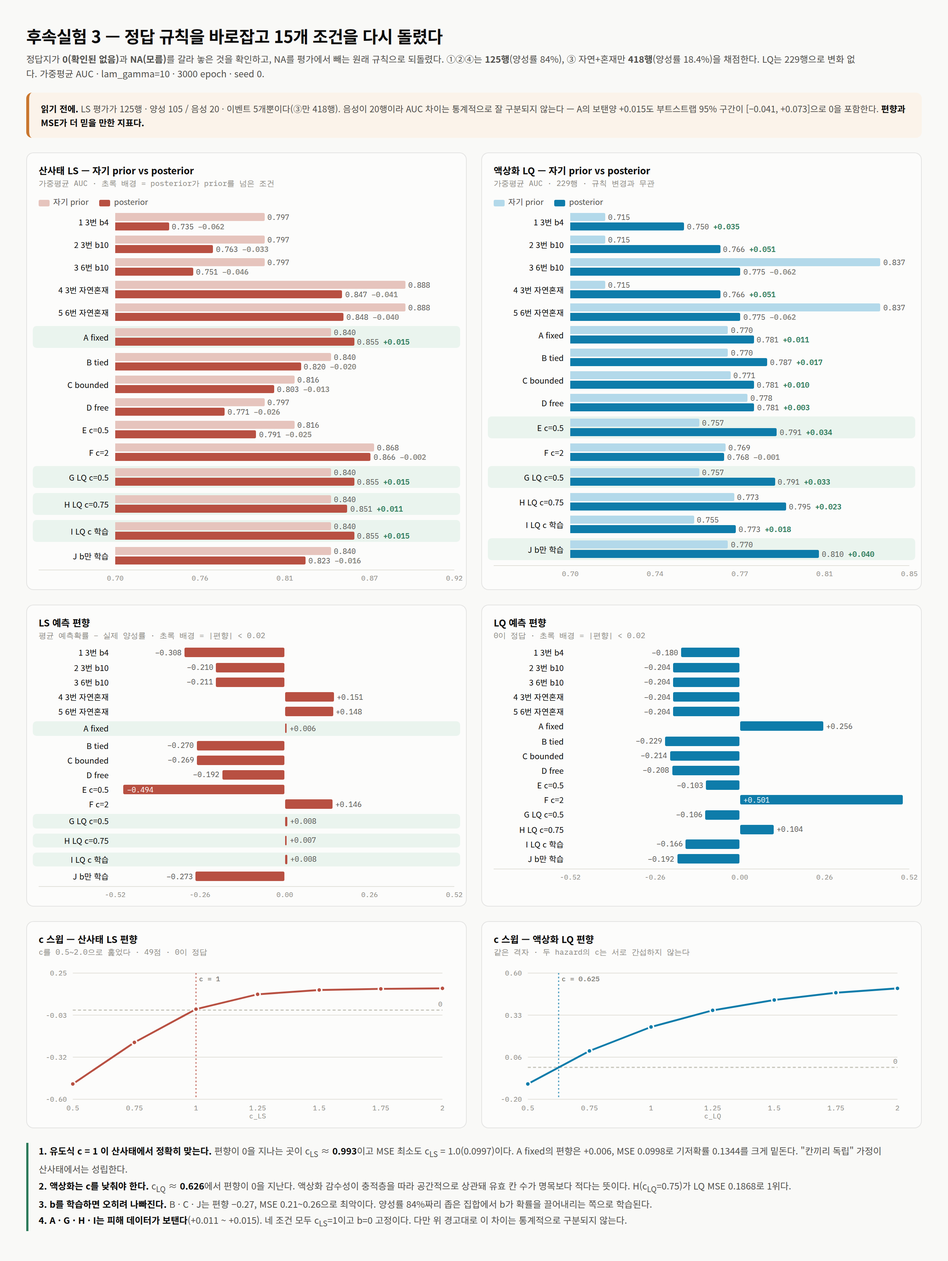
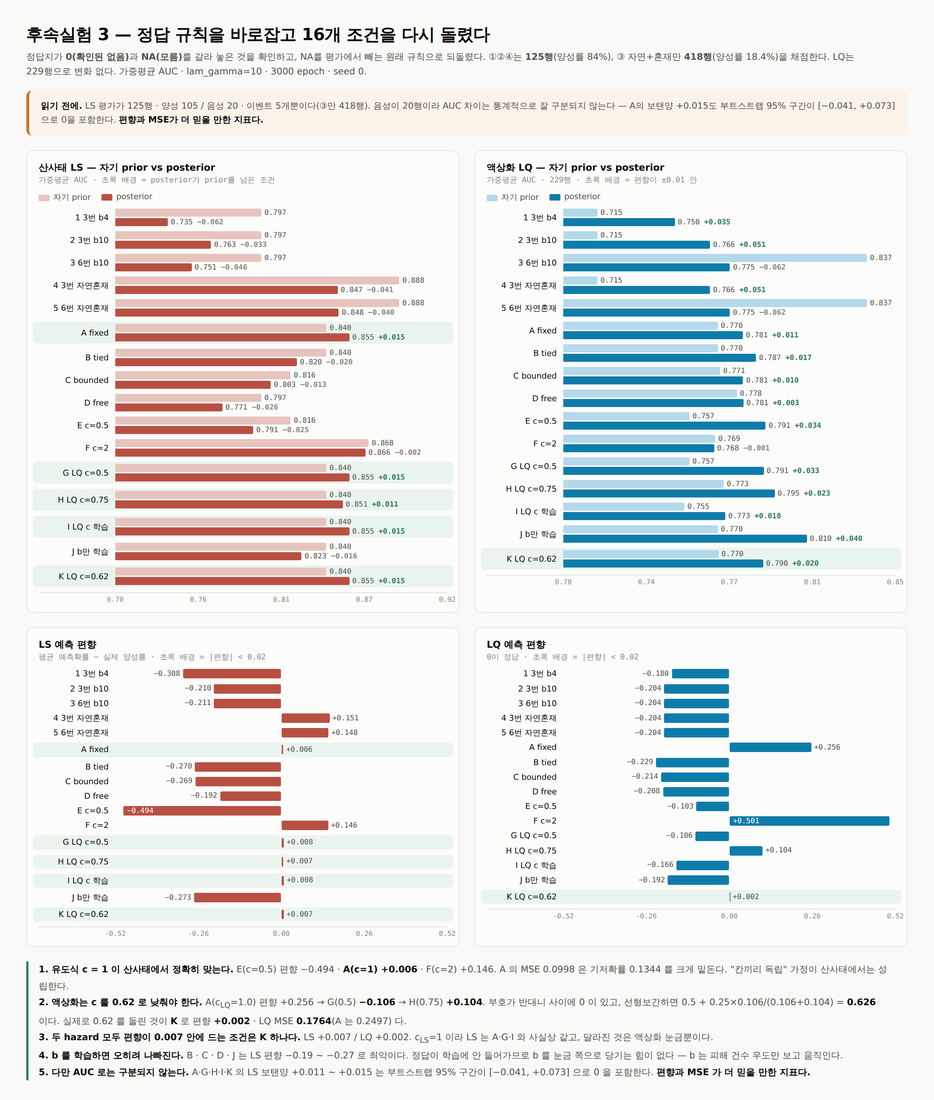
LS·LQ 가중 AUC 그림에 K 를 넣는다
docs/그림/후속실험3_ruleB_results.png/.html 이 15개 조건 시점에서 멈춰
있었다. K 가 빠져 있고 스윕 패널 두 개가 아직 붙어 있었다.

  · D.cond 에 K 추가 -> LS/LQ 자기 prior vs posterior, LS/LQ 예측 편향
    네 패널 전부에 K 가 들어간다
  · c 스윕 패널 두 개 제거
  · LQ 패널의 초록 강조 기준을 "posterior > prior"(거의 전부 해당이라
    의미가 없었다)에서 "편향이 ±0.01 안"으로 바꿨다 -> K 하나
  · 각주를 A/E/F 와 G/H/K 비교로 다시 썼다. 격자 이야기 없이
    선형보간 0.626 -> 실측 0.62 에서 +0.002 로 잇는다

Claude-Session: https://claude.ai/code/session_01JcDXYvn1XaQf5m8mAKW3Lg

diff --git a/docs/그림/후속실험3_ruleB_results.html b/docs/그림/후속실험3_ruleB_results.html
@@ -40,7 +40,7 @@ svg{display:block;width:100%;height:auto}
       border-left:3px solid var(--good);padding-left:14px;max-width:1180px}
 .foot b{color:var(--text-primary)}
 </style></head><body><div class="viz-root" data-palette="#B85042,#0E7CAA">
-<h1>후속실험 3 — 정답 규칙을 바로잡고 15개 조건을 다시 돌렸다</h1>
+<h1>후속실험 3 — 정답 규칙을 바로잡고 16개 조건을 다시 돌렸다</h1>
 <p class="sub">정답지가 <b>0(확인된 없음)</b>과 <b>NA(모름)</b>를 갈라 놓은 것을 확인하고, NA를 평가에서 빼는 원래 규칙으로 되돌렸다.
 ①②④는 <b>125행</b>(양성률 84%), ③ 자연+혼재만 <b>418행</b>(양성률 18.4%)을 채점한다. LQ는 229행으로 변화 없다.
 가중평균 AUC · lam_gamma=10 · 3000 epoch · seed 0.</p>
@@ -50,7 +50,7 @@ svg{display:block;width:100%;height:auto}
 <div class="foot" id="foot"></div>
 </div>
 <script>
-const D={"cond": [{"No": "1", "이름": "3번 b4", "ls_raw": 0.7968643805993205, "ls_zp": 0.7968643805993205, "ls_area": 0.0, "ls_post": 0.7348110390279065, "ls_gain": -0.062053341571414, "mse_ls": 0.2793319734473521, "bias_ls": -0.3078073789381724, "base_ls": 0.84, "lq_raw": 0.715445570663787, "lq_zp": 0.715445570663787, "lq_area": 0.0, "lq_post": 0.7503757454557128, "lq_gain": 0.0349301747919258, "mse_lq": 0.2280262782090792, "bias_lq": -0.1803958406016257, "base_lq": 0.4759825327510917, "n_ls": 125, "n_lq": 229, "c_LS": NaN, "c_LQ": NaN, "a_LS": 0.7274190934799594, "b_LS": 3.954071169803808, "a_LQ": 0.5044058479070177, "b_LQ": 1.0587060034026514, "label": "1 3번 b4"}, {"No": "2", "이름": "3번 b10", "ls_raw": 0.7968643805993205, "ls_zp": 0.7968643805993205, "ls_area": 0.0, "ls_post": 0.7634924312635156, "ls_gain": -0.0333719493358048, "mse_ls": 0.2510062807398157, "bias_ls": -0.2103040080561456, "base_ls": 0.84, "lq_raw": 0.715445570663787, "lq_zp": 0.715445570663787, "lq_area": 0.0, "lq_post": 0.7662982008386088, "lq_gain": 0.0508526301748217, "mse_lq": 0.2427722398723853, "bias_lq": -0.2039158925688065, "base_lq": 0.4759825327510917, "n_ls": 125, "n_lq": 229, "c_LS": NaN, "c_LQ": NaN, "a_LS": 1.568403632675413, "b_LS": 9.522993449631365, "a_LQ": 0.5036324030079448, "b_LQ": 0.9051038253663326, "label": "2 3번 b10"}, {"No": "3", "이름": "6번 b10", "ls_raw": 0.7968643805993205, "ls_zp": 0.7968643805993205, "ls_area": 0.0, "ls_post": 0.7505792400370713, "ls_gain": -0.0462851405622491, "mse_ls": 0.2524140657985036, "bias_ls": -0.2111290477389198, "base_ls": 0.84, "lq_raw": 0.8372328435881067, "lq_zp": 0.8372328435881067, "lq_area": 0.0, "lq_post": 0.775312447971764, "lq_gain": -0.0619203956163426, "mse_lq": 0.2408705471471037, "bias_lq": -0.2041973127268158, "base_lq": 0.4759825327510917, "n_ls": 125, "n_lq": 229, "c_LS": NaN, "c_LQ": NaN, "a_LS": 1.582856784429489, "b_LS": 9.588503781595774, "a_LQ": 0.5054128561243995, "b_LQ": -0.3364140951384531, "label": "3 6번 b10"}, {"No": "4", "이름": "3번 자연혼재", "ls_raw": 0.8882617351397255, "ls_zp": 0.8882617351397255, "ls_area": 0.0, "ls_post": 0.8473746499104803, "ls_gain": -0.0408870852292452, "mse_ls": 0.1404156863563215, "bias_ls": 0.1508961155759333, "base_ls": 0.1842105263157894, "lq_raw": 0.715445570663787, "lq_zp": 0.715445570663787, "lq_area": 0.0, "lq_post": 0.7662982008386088, "lq_gain": 0.0508526301748217, "mse_lq": 0.2427722398723853, "bias_lq": -0.2039158925688065, "base_lq": 0.4759825327510917, "n_ls": 418, "n_lq": 229, "c_LS": NaN, "c_LQ": NaN, "a_LS": 1.568403632675413, "b_LS": 9.522993449631365, "a_LQ": 0.5036324030079448, "b_LQ": 0.9051038253663326, "label": "4 3번 자연혼재"}, {"No": "5", "이름": "6번 자연혼재", "ls_raw": 0.8882617351397255, "ls_zp": 0.8882617351397255, "ls_area": 0.0, "ls_post": 0.8481457114288896, "ls_gain": -0.0401160237108358, "mse_ls": 0.1371212718010325, "bias_ls": 0.1476869689204099, "base_ls": 0.1842105263157894, "lq_raw": 0.8372328435881067, "lq_zp": 0.8372328435881067, "lq_area": 0.0, "lq_post": 0.775312447971764, "lq_gain": -0.0619203956163426, "mse_lq": 0.2408705471471037, "bias_lq": -0.2041973127268158, "base_lq": 0.4759825327510917, "n_ls": 418, "n_lq": 229, "c_LS": NaN, "c_LQ": NaN, "a_LS": 1.582856784429489, "b_LS": 9.588503781595774, "a_LQ": 0.5054128561243995, "b_LQ": -0.3364140951384531, "label": "5 6번 자연혼재"}, {"No": "A", "이름": "fixed", "ls_raw": 0.7968643805993205, "ls_zp": 0.8399598393574298, "ls_area": 0.0430954587581092, "ls_post": 0.8550200803212852, "ls_gain": 0.0150602409638553, "mse_ls": 0.0998487663732678, "bias_ls": 0.0061859941832526, "base_ls": 0.84, "lq_raw": 0.715445570663787, "lq_zp": 0.7698132442003763, "lq_area": 0.0543676735365893, "lq_post": 0.7811638620211699, "lq_gain": 0.0113506178207936, "mse_lq": 0.2497435455511018, "bias_lq": 0.2562676233067474, "base_lq": 0.4759825327510917, "n_ls": 125, "n_lq": 229, "c_LS": 1.0, "c_LQ": 1.0, "a_LS": 1.0, "b_LS": 0.0, "a_LQ": 1.0, "b_LQ": 0.0, "label": "A fixed"}, {"No": "B", "이름": "tied", "ls_raw": 0.7968643805993205, "ls_zp": 0.8399598393574298, "ls_area": 0.0430954587581092, "ls_post": 0.8204252909072185, "ls_gain": -0.0195345484502112, "mse_ls": 0.2147855366271819, "bias_ls": -0.2703524960405016, "base_ls": 0.84, "lq_raw": 0.715445570663787, "lq_zp": 0.7698132442003763, "lq_area": 0.0543676735365893, "lq_post": 0.7871013373621009, "lq_gain": 0.0172880931617245, "mse_lq": 0.2529894925057961, "bias_lq": -0.2293429645422477, "base_lq": 0.4759825327510917, "n_ls": 125, "n_lq": 229, "c_LS": 0.8890630358122407, "c_LQ": 0.5042456068699199, "a_LS": 0.8890630358122407, "b_LS": 4.913802665460381, "a_LQ": 0.5042456068699199, "b_LQ": 0.8037535238086804, "label": "B tied"}, {"No": "C", "이름": "bounded", "ls_raw": 0.7968643805993205, "ls_zp": 0.8162676346411286, "ls_area": 0.019403254041808, "ls_post": 0.8030867057975491, "ls_gain": -0.0131809288435794, "mse_ls": 0.256347104280172, "bias_ls": -0.2691445587496691, "base_ls": 0.84, "lq_raw": 0.715445570663787, "lq_zp": 0.7708815568191858, "lq_area": 0.0554359861553988, "lq_post": 0.7812510185045455, "lq_gain": 0.0103694616853596, "mse_lq": 0.2506867966278058, "bias_lq": -0.2142641875148332, "base_lq": 0.4759825327510917, "n_ls": 125, "n_lq": 229, "c_LS": 1.0, "c_LQ": 1.0, "a_LS": 1.9766451434571248, "b_LS": 11.063044786600129, "a_LQ": 0.5076031407489251, "b_LQ": 0.8302828512779357, "label": "C bounded"}, {"No": "D", "이름": "free", "ls_raw": 0.7968643805993205, "ls_zp": 0.7968643805993205, "ls_area": 0.0, "ls_post": 0.7710225517454433, "ls_gain": -0.0258418288538772, "mse_ls": 0.25265216745466, "bias_ls": -0.1917256198165663, "base_ls": 0.84, "lq_raw": 0.715445570663787, "lq_zp": 0.7784457535241298, "lq_area": 0.0630001828603428, "lq_post": 0.7813957150778135, "lq_gain": 0.0029499615536836, "mse_lq": 0.2411452087850049, "bias_lq": -0.2079445798010062, "base_lq": 0.4759825327510917, "n_ls": 125, "n_lq": 229, "c_LS": 0.0062676832952768, "c_LQ": 0.7820254320263271, "a_LS": 1.8616153745419104, "b_LS": 11.492543883093449, "a_LQ": 0.5038246365008456, "b_LQ": 0.9129131690871476, "label": "D free"}, {"No": "E", "이름": "a1-c05", "ls_raw": 0.7968643805993205, "ls_zp": 0.8162676346411286, "ls_area": 0.019403254041808, "ls_post": 0.7914684378539801, "ls_gain": -0.0247991967871484, "mse_ls": 0.4191938525760641, "bias_ls": -0.4942922925468241, "base_ls": 0.84, "lq_raw": 0.715445570663787, "lq_zp": 0.7570032442862361, "lq_area": 0.0415576736224491, "lq_post": 0.7913576504333986, "lq_gain": 0.0343544061471624, "mse_lq": 0.1932071299132106, "bias_lq": -0.1030772039249623, "base_lq": 0.4759825327510917, "n_ls": 125, "n_lq": 229, "c_LS": 0.5, "c_LQ": 0.5, "a_LS": 1.0, "b_LS": 0.0, "a_LQ": 1.0, "b_LQ": 0.0, "label": "E c=0.5"}, {"No": "F", "이름": "a1-c2", "ls_raw": 0.7968643805993205, "ls_zp": 0.8679358459478941, "ls_area": 0.0710714653485735, "ls_post": 0.8657939450108125, "ls_gain": -0.0021419009370815, "mse_ls": 0.1442996419327227, "bias_ls": 0.1463608846378705, "base_ls": 0.84, "lq_raw": 0.715445570663787, "lq_zp": 0.7686894582468381, "lq_area": 0.0532438875830511, "lq_post": 0.7681273604980395, "lq_gain": -0.0005620977487985, "mse_lq": 0.4896167745585785, "bias_lq": 0.5007791235939936, "base_lq": 0.4759825327510917, "n_ls": 125, "n_lq": 229, "c_LS": 2.0, "c_LQ": 2.0, "a_LS": 1.0, "b_LS": 0.0, "a_LQ": 1.0, "b_LQ": 0.0, "label": "F c=2"}, {"No": "G", "이름": "lq-c05", "ls_raw": 0.7968643805993205, "ls_zp": 0.8399598393574298, "ls_area": 0.0430954587581092, "ls_post": 0.8550200803212852, "ls_gain": 0.0150602409638553, "mse_ls": 0.0994073025277471, "bias_ls": 0.0076548553637766, "base_ls": 0.84, "lq_raw": 0.715445570663787, "lq_zp": 0.7570032442862361, "lq_area": 0.0415576736224491, "lq_post": 0.7905010056344223, "lq_gain": 0.0334977613481861, "mse_lq": 0.1929188856756437, "bias_lq": -0.1055842100631908, "base_lq": 0.4759825327510917, "n_ls": 125, "n_lq": 229, "c_LS": 1.0, "c_LQ": 0.5, "a_LS": 1.0, "b_LS": 0.0, "a_LQ": 1.0, "b_LQ": 0.0, "label": "G LQ c=0.5"}, {"No": "H", "이름": "lq-c075", "ls_raw": 0.7968643805993205, "ls_zp": 0.8399598393574298, "ls_area": 0.0430954587581092, "ls_post": 0.8506693440428382, "ls_gain": 0.0107095046854084, "mse_ls": 0.0997649079420881, "bias_ls": 0.0065844150854692, "base_ls": 0.84, "lq_raw": 0.715445570663787, "lq_zp": 0.7725097545303329, "lq_area": 0.0570641838665458, "lq_post": 0.7954588992722339, "lq_gain": 0.022949144741901, "mse_lq": 0.1867685792322648, "bias_lq": 0.1041476237795492, "base_lq": 0.4759825327510917, "n_ls": 125, "n_lq": 229, "c_LS": 1.0, "c_LQ": 0.75, "a_LS": 1.0, "b_LS": 0.0, "a_LQ": 1.0, "b_LQ": 0.0, "label": "H LQ c=0.75"}, {"No": "I", "이름": "lq-c-free", "ls_raw": 0.7968643805993205, "ls_zp": 0.8399598393574298, "ls_area": 0.0430954587581092, "ls_post": 0.8550200803212852, "ls_gain": 0.0150602409638553, "mse_ls": 0.0993319630371059, "bias_ls": 0.0080140598146835, "base_ls": 0.84, "lq_raw": 0.715445570663787, "lq_zp": 0.7547224351413069, "lq_area": 0.0392768644775198, "lq_post": 0.7731792081282929, "lq_gain": 0.018456772986986, "mse_lq": 0.215476651432244, "bias_lq": -0.1658233394545835, "base_lq": 0.4759825327510917, "n_ls": 125, "n_lq": 229, "c_LS": 1.0, "c_LQ": 0.4337486710059368, "a_LS": 1.0, "b_LS": 0.0, "a_LQ": 1.0, "b_LQ": 0.0, "label": "I LQ c 학습"}, {"No": "J", "이름": "b-only", "ls_raw": 0.7968643805993205, "ls_zp": 0.8399598393574298, "ls_area": 0.0430954587581092, "ls_post": 0.8234708063021315, "ls_gain": -0.0164890330552982, "mse_ls": 0.2218293968185284, "bias_ls": -0.2729773504885197, "base_ls": 0.84, "lq_raw": 0.715445570663787, "lq_zp": 0.7698132442003763, "lq_area": 0.0543676735365893, "lq_post": 0.8099853097180639, "lq_gain": 0.0401720655176875, "mse_lq": 0.2217175699235435, "bias_lq": -0.1922137031066942, "base_lq": 0.4759825327510917, "n_ls": 125, "n_lq": 229, "c_LS": 1.0, "c_LQ": 1.0, "a_LS": 1.0, "b_LS": 5.532767742701953, "a_LQ": 1.0, "b_LQ": 2.689181086233802, "label": "J b만 학습"}], "sweep_ls": [{"c_ls": 0.5, "bias_ls": -0.49755421823061186, "mse_ls": 0.4229181477693678}, {"c_ls": 0.75, "bias_ls": -0.2177441798865655, "mse_ls": 0.19460370645001654}, {"c_ls": 1.0, "bias_ls": 0.006468757851519557, "mse_ls": 0.09973784157985348}, {"c_ls": 1.25, "bias_ls": 0.10619467818283708, "mse_ls": 0.1103083685957041}, {"c_ls": 1.5, "bias_ls": 0.13555024138204244, "mse_ls": 0.13265754187366735}, {"c_ls": 1.75, "bias_ls": 0.14302155436747296, "mse_ls": 0.1413797299042388}, {"c_ls": 2.0, "bias_ls": 0.14635385218262262, "mse_ls": 0.1442951929535584}], "sweep_lq": [{"c_lq": 0.5, "bias_lq": -0.1054988886372061, "mse_lq": 0.19329377944292528}, {"c_lq": 0.75, "bias_lq": 0.10387331972798794, "mse_lq": 0.18650030421993005}, {"c_lq": 1.0, "bias_lq": 0.2560556918963564, "mse_lq": 0.24931194191544764}, {"c_lq": 1.25, "bias_lq": 0.3612479073866175, "mse_lq": 0.3329907232543502}, {"c_lq": 1.5, "bias_lq": 0.4271011976368045, "mse_lq": 0.39993356022340326}, {"c_lq": 1.75, "bias_lq": 0.4730715609363915, "mse_lq": 0.4512091891390946}, {"c_lq": 2.0, "bias_lq": 0.500784855984935, "mse_lq": 0.4896265960907145}]}, C=D.cond;
+const D={"cond": [{"No": "1", "이름": "3번 b4", "ls_raw": 0.7968643805993205, "ls_zp": 0.7968643805993205, "ls_area": 0.0, "ls_post": 0.7348110390279065, "ls_gain": -0.062053341571414, "mse_ls": 0.2793319734473521, "bias_ls": -0.3078073789381724, "base_ls": 0.84, "lq_raw": 0.715445570663787, "lq_zp": 0.715445570663787, "lq_area": 0.0, "lq_post": 0.7503757454557128, "lq_gain": 0.0349301747919258, "mse_lq": 0.2280262782090792, "bias_lq": -0.1803958406016257, "base_lq": 0.4759825327510917, "n_ls": 125, "n_lq": 229, "c_LS": NaN, "c_LQ": NaN, "a_LS": 0.7274190934799594, "b_LS": 3.954071169803808, "a_LQ": 0.5044058479070177, "b_LQ": 1.0587060034026514, "label": "1 3번 b4"}, {"No": "2", "이름": "3번 b10", "ls_raw": 0.7968643805993205, "ls_zp": 0.7968643805993205, "ls_area": 0.0, "ls_post": 0.7634924312635156, "ls_gain": -0.0333719493358048, "mse_ls": 0.2510062807398157, "bias_ls": -0.2103040080561456, "base_ls": 0.84, "lq_raw": 0.715445570663787, "lq_zp": 0.715445570663787, "lq_area": 0.0, "lq_post": 0.7662982008386088, "lq_gain": 0.0508526301748217, "mse_lq": 0.2427722398723853, "bias_lq": -0.2039158925688065, "base_lq": 0.4759825327510917, "n_ls": 125, "n_lq": 229, "c_LS": NaN, "c_LQ": NaN, "a_LS": 1.568403632675413, "b_LS": 9.522993449631365, "a_LQ": 0.5036324030079448, "b_LQ": 0.9051038253663326, "label": "2 3번 b10"}, {"No": "3", "이름": "6번 b10", "ls_raw": 0.7968643805993205, "ls_zp": 0.7968643805993205, "ls_area": 0.0, "ls_post": 0.7505792400370713, "ls_gain": -0.0462851405622491, "mse_ls": 0.2524140657985036, "bias_ls": -0.2111290477389198, "base_ls": 0.84, "lq_raw": 0.8372328435881067, "lq_zp": 0.8372328435881067, "lq_area": 0.0, "lq_post": 0.775312447971764, "lq_gain": -0.0619203956163426, "mse_lq": 0.2408705471471037, "bias_lq": -0.2041973127268158, "base_lq": 0.4759825327510917, "n_ls": 125, "n_lq": 229, "c_LS": NaN, "c_LQ": NaN, "a_LS": 1.582856784429489, "b_LS": 9.588503781595774, "a_LQ": 0.5054128561243995, "b_LQ": -0.3364140951384531, "label": "3 6번 b10"}, {"No": "4", "이름": "3번 자연혼재", "ls_raw": 0.8882617351397255, "ls_zp": 0.8882617351397255, "ls_area": 0.0, "ls_post": 0.8473746499104803, "ls_gain": -0.0408870852292452, "mse_ls": 0.1404156863563215, "bias_ls": 0.1508961155759333, "base_ls": 0.1842105263157894, "lq_raw": 0.715445570663787, "lq_zp": 0.715445570663787, "lq_area": 0.0, "lq_post": 0.7662982008386088, "lq_gain": 0.0508526301748217, "mse_lq": 0.2427722398723853, "bias_lq": -0.2039158925688065, "base_lq": 0.4759825327510917, "n_ls": 418, "n_lq": 229, "c_LS": NaN, "c_LQ": NaN, "a_LS": 1.568403632675413, "b_LS": 9.522993449631365, "a_LQ": 0.5036324030079448, "b_LQ": 0.9051038253663326, "label": "4 3번 자연혼재"}, {"No": "5", "이름": "6번 자연혼재", "ls_raw": 0.8882617351397255, "ls_zp": 0.8882617351397255, "ls_area": 0.0, "ls_post": 0.8481457114288896, "ls_gain": -0.0401160237108358, "mse_ls": 0.1371212718010325, "bias_ls": 0.1476869689204099, "base_ls": 0.1842105263157894, "lq_raw": 0.8372328435881067, "lq_zp": 0.8372328435881067, "lq_area": 0.0, "lq_post": 0.775312447971764, "lq_gain": -0.0619203956163426, "mse_lq": 0.2408705471471037, "bias_lq": -0.2041973127268158, "base_lq": 0.4759825327510917, "n_ls": 418, "n_lq": 229, "c_LS": NaN, "c_LQ": NaN, "a_LS": 1.582856784429489, "b_LS": 9.588503781595774, "a_LQ": 0.5054128561243995, "b_LQ": -0.3364140951384531, "label": "5 6번 자연혼재"}, {"No": "A", "이름": "fixed", "ls_raw": 0.7968643805993205, "ls_zp": 0.8399598393574298, "ls_area": 0.0430954587581092, "ls_post": 0.8550200803212852, "ls_gain": 0.0150602409638553, "mse_ls": 0.0998487663732678, "bias_ls": 0.0061859941832526, "base_ls": 0.84, "lq_raw": 0.715445570663787, "lq_zp": 0.7698132442003763, "lq_area": 0.0543676735365893, "lq_post": 0.7811638620211699, "lq_gain": 0.0113506178207936, "mse_lq": 0.2497435455511018, "bias_lq": 0.2562676233067474, "base_lq": 0.4759825327510917, "n_ls": 125, "n_lq": 229, "c_LS": 1.0, "c_LQ": 1.0, "a_LS": 1.0, "b_LS": 0.0, "a_LQ": 1.0, "b_LQ": 0.0, "label": "A fixed"}, {"No": "B", "이름": "tied", "ls_raw": 0.7968643805993205, "ls_zp": 0.8399598393574298, "ls_area": 0.0430954587581092, "ls_post": 0.8204252909072185, "ls_gain": -0.0195345484502112, "mse_ls": 0.2147855366271819, "bias_ls": -0.2703524960405016, "base_ls": 0.84, "lq_raw": 0.715445570663787, "lq_zp": 0.7698132442003763, "lq_area": 0.0543676735365893, "lq_post": 0.7871013373621009, "lq_gain": 0.0172880931617245, "mse_lq": 0.2529894925057961, "bias_lq": -0.2293429645422477, "base_lq": 0.4759825327510917, "n_ls": 125, "n_lq": 229, "c_LS": 0.8890630358122407, "c_LQ": 0.5042456068699199, "a_LS": 0.8890630358122407, "b_LS": 4.913802665460381, "a_LQ": 0.5042456068699199, "b_LQ": 0.8037535238086804, "label": "B tied"}, {"No": "C", "이름": "bounded", "ls_raw": 0.7968643805993205, "ls_zp": 0.8162676346411286, "ls_area": 0.019403254041808, "ls_post": 0.8030867057975491, "ls_gain": -0.0131809288435794, "mse_ls": 0.256347104280172, "bias_ls": -0.2691445587496691, "base_ls": 0.84, "lq_raw": 0.715445570663787, "lq_zp": 0.7708815568191858, "lq_area": 0.0554359861553988, "lq_post": 0.7812510185045455, "lq_gain": 0.0103694616853596, "mse_lq": 0.2506867966278058, "bias_lq": -0.2142641875148332, "base_lq": 0.4759825327510917, "n_ls": 125, "n_lq": 229, "c_LS": 1.0, "c_LQ": 1.0, "a_LS": 1.9766451434571248, "b_LS": 11.063044786600129, "a_LQ": 0.5076031407489251, "b_LQ": 0.8302828512779357, "label": "C bounded"}, {"No": "D", "이름": "free", "ls_raw": 0.7968643805993205, "ls_zp": 0.7968643805993205, "ls_area": 0.0, "ls_post": 0.7710225517454433, "ls_gain": -0.0258418288538772, "mse_ls": 0.25265216745466, "bias_ls": -0.1917256198165663, "base_ls": 0.84, "lq_raw": 0.715445570663787, "lq_zp": 0.7784457535241298, "lq_area": 0.0630001828603428, "lq_post": 0.7813957150778135, "lq_gain": 0.0029499615536836, "mse_lq": 0.2411452087850049, "bias_lq": -0.2079445798010062, "base_lq": 0.4759825327510917, "n_ls": 125, "n_lq": 229, "c_LS": 0.0062676832952768, "c_LQ": 0.7820254320263271, "a_LS": 1.8616153745419104, "b_LS": 11.492543883093449, "a_LQ": 0.5038246365008456, "b_LQ": 0.9129131690871476, "label": "D free"}, {"No": "E", "이름": "a1-c05", "ls_raw": 0.7968643805993205, "ls_zp": 0.8162676346411286, "ls_area": 0.019403254041808, "ls_post": 0.7914684378539801, "ls_gain": -0.0247991967871484, "mse_ls": 0.4191938525760641, "bias_ls": -0.4942922925468241, "base_ls": 0.84, "lq_raw": 0.715445570663787, "lq_zp": 0.7570032442862361, "lq_area": 0.0415576736224491, "lq_post": 0.7913576504333986, "lq_gain": 0.0343544061471624, "mse_lq": 0.1932071299132106, "bias_lq": -0.1030772039249623, "base_lq": 0.4759825327510917, "n_ls": 125, "n_lq": 229, "c_LS": 0.5, "c_LQ": 0.5, "a_LS": 1.0, "b_LS": 0.0, "a_LQ": 1.0, "b_LQ": 0.0, "label": "E c=0.5"}, {"No": "F", "이름": "a1-c2", "ls_raw": 0.7968643805993205, "ls_zp": 0.8679358459478941, "ls_area": 0.0710714653485735, "ls_post": 0.8657939450108125, "ls_gain": -0.0021419009370815, "mse_ls": 0.1442996419327227, "bias_ls": 0.1463608846378705, "base_ls": 0.84, "lq_raw": 0.715445570663787, "lq_zp": 0.7686894582468381, "lq_area": 0.0532438875830511, "lq_post": 0.7681273604980395, "lq_gain": -0.0005620977487985, "mse_lq": 0.4896167745585785, "bias_lq": 0.5007791235939936, "base_lq": 0.4759825327510917, "n_ls": 125, "n_lq": 229, "c_LS": 2.0, "c_LQ": 2.0, "a_LS": 1.0, "b_LS": 0.0, "a_LQ": 1.0, "b_LQ": 0.0, "label": "F c=2"}, {"No": "G", "이름": "lq-c05", "ls_raw": 0.7968643805993205, "ls_zp": 0.8399598393574298, "ls_area": 0.0430954587581092, "ls_post": 0.8550200803212852, "ls_gain": 0.0150602409638553, "mse_ls": 0.0994073025277471, "bias_ls": 0.0076548553637766, "base_ls": 0.84, "lq_raw": 0.715445570663787, "lq_zp": 0.7570032442862361, "lq_area": 0.0415576736224491, "lq_post": 0.7905010056344223, "lq_gain": 0.0334977613481861, "mse_lq": 0.1929188856756437, "bias_lq": -0.1055842100631908, "base_lq": 0.4759825327510917, "n_ls": 125, "n_lq": 229, "c_LS": 1.0, "c_LQ": 0.5, "a_LS": 1.0, "b_LS": 0.0, "a_LQ": 1.0, "b_LQ": 0.0, "label": "G LQ c=0.5"}, {"No": "H", "이름": "lq-c075", "ls_raw": 0.7968643805993205, "ls_zp": 0.8399598393574298, "ls_area": 0.0430954587581092, "ls_post": 0.8506693440428382, "ls_gain": 0.0107095046854084, "mse_ls": 0.0997649079420881, "bias_ls": 0.0065844150854692, "base_ls": 0.84, "lq_raw": 0.715445570663787, "lq_zp": 0.7725097545303329, "lq_area": 0.0570641838665458, "lq_post": 0.7954588992722339, "lq_gain": 0.022949144741901, "mse_lq": 0.1867685792322648, "bias_lq": 0.1041476237795492, "base_lq": 0.4759825327510917, "n_ls": 125, "n_lq": 229, "c_LS": 1.0, "c_LQ": 0.75, "a_LS": 1.0, "b_LS": 0.0, "a_LQ": 1.0, "b_LQ": 0.0, "label": "H LQ c=0.75"}, {"No": "I", "이름": "lq-c-free", "ls_raw": 0.7968643805993205, "ls_zp": 0.8399598393574298, "ls_area": 0.0430954587581092, "ls_post": 0.8550200803212852, "ls_gain": 0.0150602409638553, "mse_ls": 0.0993319630371059, "bias_ls": 0.0080140598146835, "base_ls": 0.84, "lq_raw": 0.715445570663787, "lq_zp": 0.7547224351413069, "lq_area": 0.0392768644775198, "lq_post": 0.7731792081282929, "lq_gain": 0.018456772986986, "mse_lq": 0.215476651432244, "bias_lq": -0.1658233394545835, "base_lq": 0.4759825327510917, "n_ls": 125, "n_lq": 229, "c_LS": 1.0, "c_LQ": 0.4337486710059368, "a_LS": 1.0, "b_LS": 0.0, "a_LQ": 1.0, "b_LQ": 0.0, "label": "I LQ c 학습"}, {"No": "J", "이름": "b-only", "ls_raw": 0.7968643805993205, "ls_zp": 0.8399598393574298, "ls_area": 0.0430954587581092, "ls_post": 0.8234708063021315, "ls_gain": -0.0164890330552982, "mse_ls": 0.2218293968185284, "bias_ls": -0.2729773504885197, "base_ls": 0.84, "lq_raw": 0.715445570663787, "lq_zp": 0.7698132442003763, "lq_area": 0.0543676735365893, "lq_post": 0.8099853097180639, "lq_gain": 0.0401720655176875, "mse_lq": 0.2217175699235435, "bias_lq": -0.1922137031066942, "base_lq": 0.4759825327510917, "n_ls": 125, "n_lq": 229, "c_LS": 1.0, "c_LQ": 1.0, "a_LS": 1.0, "b_LS": 5.532767742701953, "a_LQ": 1.0, "b_LQ": 2.689181086233802, "label": "J b만 학습"}, {"No": "K", "이름": "lq-c062", "ls_raw": 0.7968643805993205, "ls_zp": 0.8399598393574298, "ls_area": 0.0430954587581092, "ls_post": 0.8550200803212852, "ls_gain": 0.0150602409638553, "mse_ls": 0.0996320417443276, "bias_ls": 0.0070034797765721, "base_ls": 0.84, "lq_raw": 0.715445570663787, "lq_zp": 0.7701572683068789, "lq_area": 0.0547117, "lq_post": 0.7902431348213168, "lq_gain": 0.0200858665144379, "mse_lq": 0.1764070169251056, "bias_lq": 0.0015698533064137, "base_lq": 0.4759825327510917, "n_ls": 125, "n_lq": 229, "c_LS": 1.0, "c_LQ": 0.62, "a_LS": 1.0, "b_LS": 0.0, "a_LQ": 1.0, "b_LQ": 0.0, "label": "K LQ c=0.62"}], "sweep_ls": [{"c_ls": 0.5, "bias_ls": -0.49755421823061186, "mse_ls": 0.4229181477693678}, {"c_ls": 0.75, "bias_ls": -0.2177441798865655, "mse_ls": 0.19460370645001654}, {"c_ls": 1.0, "bias_ls": 0.006468757851519557, "mse_ls": 0.09973784157985348}, {"c_ls": 1.25, "bias_ls": 0.10619467818283708, "mse_ls": 0.1103083685957041}, {"c_ls": 1.5, "bias_ls": 0.13555024138204244, "mse_ls": 0.13265754187366735}, {"c_ls": 1.75, "bias_ls": 0.14302155436747296, "mse_ls": 0.1413797299042388}, {"c_ls": 2.0, "bias_ls": 0.14635385218262262, "mse_ls": 0.1442951929535584}], "sweep_lq": [{"c_lq": 0.5, "bias_lq": -0.1054988886372061, "mse_lq": 0.19329377944292528}, {"c_lq": 0.75, "bias_lq": 0.10387331972798794, "mse_lq": 0.18650030421993005}, {"c_lq": 1.0, "bias_lq": 0.2560556918963564, "mse_lq": 0.24931194191544764}, {"c_lq": 1.25, "bias_lq": 0.3612479073866175, "mse_lq": 0.3329907232543502}, {"c_lq": 1.5, "bias_lq": 0.4271011976368045, "mse_lq": 0.39993356022340326}, {"c_lq": 1.75, "bias_lq": 0.4730715609363915, "mse_lq": 0.4512091891390946}, {"c_lq": 2.0, "bias_lq": 0.500784855984935, "mse_lq": 0.4896265960907145}]}, C=D.cond;
 const pct=(v,lo,hi)=>((v-lo)/(hi-lo)*100);
 function fmt(v,d=3){return (v>=0?"+":"−")+Math.abs(v).toFixed(d);}
 
@@ -111,27 +111,27 @@ function line(title,note,rows,xk,yk,col,refs,mark,xlab){
   return `<div class="panel"><p class="ptitle">${title}</p><p class="pnote">${note}</p>${g}</div>`;
 }
 
-const win=new Set(["A","G","H","I"]);
+const win=new Set(["A","G","H","I","K"]);
 document.getElementById("warn").innerHTML =
  `<b>읽기 전에.</b> LS 평가가 125행 · 양성 105 / 음성 20 · 이벤트 5개뿐이다(③만 418행).
   음성이 20행이라 AUC 차이는 통계적으로 잘 구분되지 않는다 — A의 보탠양 +0.015도
   부트스트랩 95% 구간이 [−0.041, +0.073]으로 0을 포함한다. <b>편향과 MSE가 더 믿을 만한 지표다.</b>`;
 document.getElementById("app").innerHTML =
   paired("산사태 LS — 자기 prior vs posterior","가중평균 AUC · 초록 배경 = posterior가 prior를 넘은 조건","ls_zp","ls_post","var(--ls)","var(--ls-lt)",0.70,0.92,win)
-+ paired("액상화 LQ — 자기 prior vs posterior","가중평균 AUC · 229행 · 규칙 변경과 무관","lq_zp","lq_post","var(--lq)","var(--lq-lt)",0.70,0.85,new Set(["J","E","G"]));
++ paired("액상화 LQ — 자기 prior vs posterior","가중평균 AUC · 229행 · 초록 배경 = 편향이 ±0.01 안","lq_zp","lq_post","var(--lq)","var(--lq-lt)",0.70,0.85,new Set(["K"]));
 document.getElementById("app2").innerHTML =
   diverge("LS 예측 편향","평균 예측확률 − 실제 양성률 · 초록 배경 = |편향| < 0.02","bias_ls","var(--ls)",0,0.52)
 + diverge("LQ 예측 편향","0이 정답 · 초록 배경 = |편향| < 0.02","bias_lq","var(--lq)",0,0.52);
-document.getElementById("app2").innerHTML +=
-  line("c 스윕 — 산사태 LS 편향","c를 0.5~2.0으로 훑었다 · 49점 · 0이 정답",D.sweep_ls,"c_ls","bias_ls","var(--ls)",[{v:0,label:"0"}],1.0,"c_LS")
-+ line("c 스윕 — 액상화 LQ 편향","같은 격자 · 두 hazard의 c는 서로 간섭하지 않는다",D.sweep_lq,"c_lq","bias_lq","var(--lq)",[{v:0,label:"0"}],0.625,"c_LQ");
 document.getElementById("foot").innerHTML =
- `<b>1. 유도식 c = 1 이 산사태에서 정확히 맞는다.</b> 편향이 0을 지나는 곳이 c<sub>LS</sub> ≈ <b>0.993</b>이고 MSE 최소도 c<sub>LS</sub> = 1.0(0.0997)이다.
-  A fixed의 편향은 +0.006, MSE 0.0998로 기저확률 0.1344를 크게 밑돈다. "칸끼리 독립" 가정이 산사태에서는 성립한다.<br>
-  <b>2. 액상화는 c를 낮춰야 한다.</b> c<sub>LQ</sub> ≈ <b>0.626</b>에서 편향이 0을 지난다. 액상화 감수성이 충적층을 따라 공간적으로 상관돼
-  유효 칸 수가 명목보다 적다는 뜻이다. H(c<sub>LQ</sub>=0.75)가 LQ MSE 0.1868로 1위다.<br>
-  <b>3. b를 학습하면 오히려 나빠진다.</b> B · C · J는 편향 −0.27, MSE 0.21~0.26으로 최악이다. 양성률 84%짜리 좁은 집합에서
-  b가 확률을 끌어내리는 쪽으로 학습된다.<br>
-  <b>4. A · G · H · I는 피해 데이터가 보탠다</b>(+0.011 ~ +0.015). 네 조건 모두 c<sub>LS</sub>=1이고 b=0 고정이다. 다만 위 경고대로
-  이 차이는 통계적으로 구분되지 않는다.`;
+ `<b>1. 유도식 c = 1 이 산사태에서 정확히 맞는다.</b> E(c=0.5) 편향 −0.494 · <b>A(c=1) +0.006</b> · F(c=2) +0.146.
+  A 의 MSE 0.0998 은 기저확률 0.1344 를 크게 밑돈다. "칸끼리 독립" 가정이 산사태에서는 성립한다.<br>
+  <b>2. 액상화는 c 를 0.62 로 낮춰야 한다.</b> A(c<sub>LQ</sub>=1.0) 편향 +0.256 → G(0.5) <b>−0.106</b> → H(0.75) <b>+0.104</b>.
+  부호가 반대니 사이에 0 이 있고, 선형보간하면 0.5 + 0.25×0.106/(0.106+0.104) = <b>0.626</b> 이다.
+  실제로 0.62 를 돌린 것이 <b>K</b> 로 편향 <b>+0.002</b> · LQ MSE <b>0.1764</b>(A 는 0.2497) 다.<br>
+  <b>3. 두 hazard 모두 편향이 0.007 안에 드는 조건은 K 하나다.</b> LS +0.007 / LQ +0.002.
+  c<sub>LS</sub>=1 이라 LS 는 A·G·I 와 사실상 같고, 달라진 것은 액상화 눈금뿐이다.<br>
+  <b>4. b 를 학습하면 오히려 나빠진다.</b> B · C · D · J 는 LS 편향 −0.19 ~ −0.27 로 최악이다.
+  정답이 학습에 안 들어가므로 b 를 눈금 쪽으로 당기는 힘이 없다 — b 는 피해 건수 우도만 보고 움직인다.<br>
+  <b>5. 다만 AUC 로는 구분되지 않는다.</b> A·G·H·I·K 의 LS 보탠양 +0.011 ~ +0.015 는
+  부트스트랩 95% 구간이 [−0.041, +0.073] 으로 0 을 포함한다. <b>편향과 MSE 가 더 믿을 만한 지표다.</b>`;
 </script></body></html>
